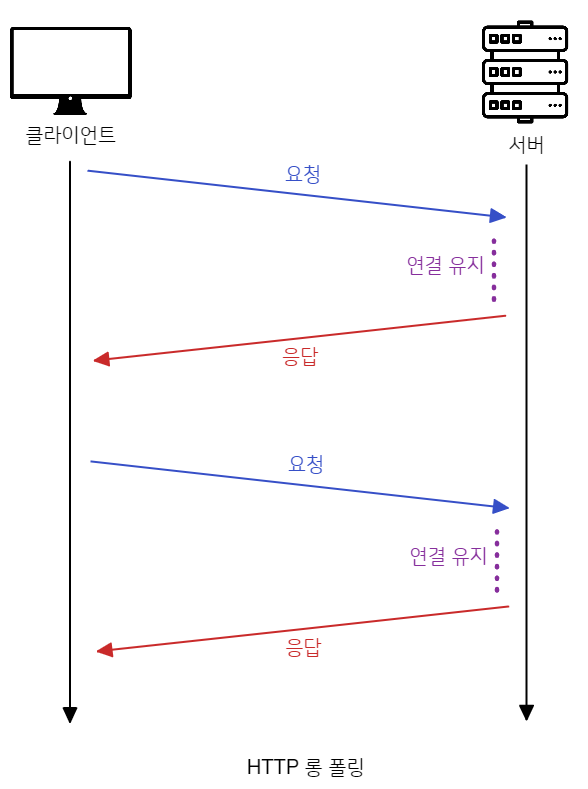
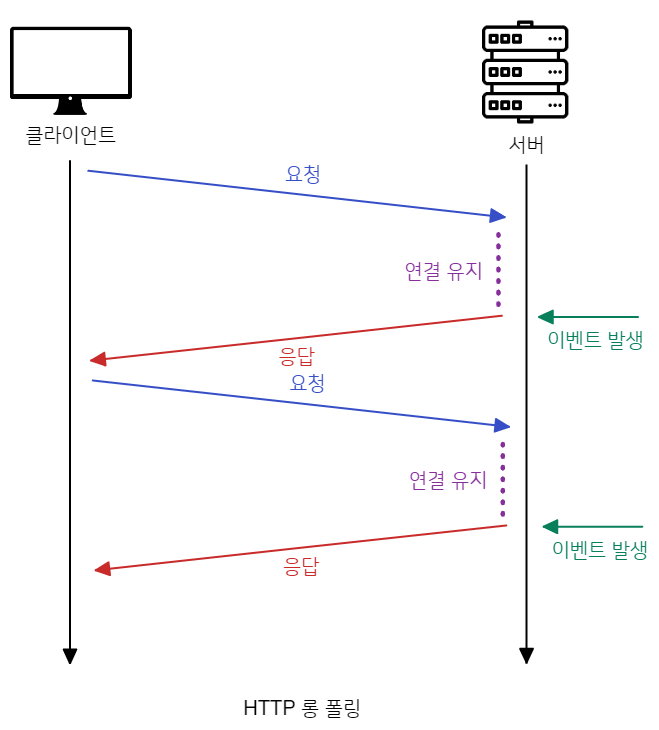
기존의 ''폴링, 롱폴링, 그리고 SSE' 포스트에 'HTTP' 스트리밍에 관한 내용 추가

diff --git a/content/blog/network/polling-and-sse.md b/content/blog/network/polling-and-sse.md
@@ -1,22 +1,22 @@
 ---
-title: '폴링, 롱폴링, 그리고 SSE'
+title: '폴링, 롱폴링, HTTP 스트리밍, SSE'
 date: 2022-05-08
 category: 'network'
 draft: false
 ---
 
-현재 실시간 양방향 통신을 구현할 때 흔히 사용하는 기술은 [웹소켓](../websocket-protocol) 기술입니다. 이 포스트에선 웹소켓이 등장하기 전에 (실시간) 양방향 통신을 구현하던 방법인 폴링과 롱폴링, 그리고 양방향 통신은 아니지만 실시간 단방향 통신 기술인 SSE에 대해 간략히 알아보겠습니다.
+현재 실시간 양방향 통신을 구현할 때 흔히 사용하는 기술은 [웹소켓](./websocket-protocol) 기술입니다. 이 포스트에선 웹소켓이 등장하기 전에 (실시간) 양방향 통신을 구현하던 방법인 폴링과 롱폴링, 스트리밍, 그리고 양방향 통신은 아니지만 실시간 단방향 통신 기술인 SSE에 대해 간략히 알아보겠습니다.
 
 ## 폴링
 
-**폴링(Polling)** 기술은 전통적인 AJAX 애플리케이션에서 사용되던 방식으로, 주기적으로 HTTP 요청을 서버에 날려서 데이터를 받아오는 방식입니다. 즉, 일정 간격마다 요청이 이뤄지며, 클라이언트는 새로운 데이터가 있든 없든 응답을 받습니다. 
+**폴링(Polling)** 기술은 전통적인 AJAX 애플리케이션에서 사용되던 방식으로, 주기적으로 HTTP 요청을 서버에 날려서 데이터를 받아오는 방식입니다. 즉, 일정 간격마다 요청이 이뤄지며, 클라이언트는 새로운 데이터가 있든 없든 응답을 받고 일정 시간 기다렸다가 다음 요청을 날리고 응답받고, 또 기다렸다가 다음 요청을 날리고 응답받고 …와 같은 방식으로 동작합니다. 
 
 <figure>
     <img src="https://cdn.jsdelivr.net/gh/jaehyeon48/jaehyeon48.github.io@master/assets/images/network/polling-and-sse/http_polling.png" alt="HTTP 폴링" />
   <figcaption>HTTP 폴링.</figcaption>
 </figure>
 
-스포츠의 문자 중계 기능과 같이, 새로운 데이터가 일정한 간격으로 생성되는 경우엔 폴링이 효과적일 수 있습니다.  하지만 코인 가격 데이터와 같이 데이터가 짧은 간격마다 계속해서 업데이트되는 경우엔 비효율적일 수 있는데 그 이유는:
+스포츠의 문자 중계 기능과 같이, 새로운 데이터가 일정한 간격으로 생성되는 경우엔 폴링이 효과적일 수 있습니다. 하지만 코인 가격 데이터와 같이 데이터가 짧은 간격마다 계속해서 업데이트되는 경우엔 비효율적일 수 있는데 그 이유는:
 
 - 실시간성을 최대화하고자 요청을 보내는 간격을 줄이자니 요청 수가 많아져서 서버에 부담이 가게 됩니다. 특히 요청을 보낼 때 HTTP 헤더 또한 같이 전송되므로 클라이언트가 요청 간격을 줄이게 되면 그만큼 서버가 받는 부하가 커지게 됩니다.
 - 반대로 서버 부담을 덜고자 간격을 늘리게 되면 실시간성이 떨어지는 문제가 있습니다.
@@ -25,18 +25,24 @@ draft: false
 
 ## 롱 폴링
 
-**롱 폴링(Long-polling)** 기술 또한 기본적으로 폴링 방식과 유사하게 HTTP 요청을 주기적으로 날려서 데이터를 받아오는 방식입니다. 단, 폴링과 달리 롱 폴링의 경우 서버에 요청을 날렸을 때 응답해줄 데이터가 없다면 일정 시간 기다리다가 데이터가 생기면 그때서야 응답해주는 방식입니다 (혹은 타임아웃이 발생하면 빈 응답을 보낼 수도 있습니다). 그리고 응답을 받은 클라이언트는 곧바로 다음 요청을 서버에 보내게 됩니다.
+**롱 폴링(Long-polling)** 기술 또한 기본적으로 폴링 방식과 유사하게 HTTP 요청을 주기적으로 날려서 데이터를 받아오는 방식입니다. 하지만 폴링과 달리 롱 폴링의 경우 서버에 요청을 날렸을 때 응답해줄 데이터가 없다면 일정 시간 기다리다가 데이터가 생기면 그때서야 응답해주는 방식입니다 (혹은 타임아웃이 발생하면 빈 응답을 보낼 수도 있습니다). 그리고 응답을 받은 클라이언트는 일반적으로 곧장 다음 요청을 서버에 보냅니다 (물론 일정 시간 기다린 이후에 보낼 수도 있습니다).
 
 <figure>
     <img src="https://cdn.jsdelivr.net/gh/jaehyeon48/jaehyeon48.github.io@master/assets/images/network/polling-and-sse/http_long_polling.png" alt="HTTP 롱 폴링" />
   <figcaption>HTTP 롱 폴링.</figcaption>
 </figure>
 
-하지만 롱 폴링의 경우, 데이터가 빈번하게 업데이트되는 상황에선 폴링방식과 별다른 차이가 없게 됩니다. 데이터 업데이트가 빈번한 경우 클라이언트는 요청 즉시 응답을 받게 되고, 바로 이어서 다시 요청을 보내 응답을 받게 되고, 또 바로 이어서 다시 요청을 보내 응답을 받고 … 와 같은 상황이 발생하기 때문입니다.
+또한, HTTP 연결 재사용 기능을 활용하여 매 롱 폴링 요청마다 TCP/IP 연결을 새로 맺어야 하는 오버헤드를 줄일 수 있습니다 (이는 폴링의 경우에도 적용되지만 일반적으로 요청 사이의 간격이 더 짧은 롱 폴링의 경우에 특히 효과를 볼 수 있습니다).
+
+하지만 롱 폴링의 경우, 폴링과 마찬가지로 어쨌든 HTTP 요청을 계속해서 날리는 것이므로 HTTP 헤더에 의한 오버헤드가 존재합니다.데이터가 빈번하게 업데이트되는 상황에선 폴링방식과 별다른 차이가 없게 됩니다. 데이터 업데이트가 빈번한 경우 클라이언트는 요청 즉시 응답을 받게 되고, 바로 이어서 다시 요청을 보내 응답을 받게 되고, 또 바로 이어서 다시 요청을 보내 응답을 받고 … 와 같은 상황이 발생하기 때문입니다.
+
+## HTTP 스트리밍
+
+**HTTP 스트리밍(HTTP Streaming)** 방식은 요청에 대한 응답을 완료하지 않은채(즉, 서버에서 요청을 계속해서 열어둔채로) 데이터를 계속해서 클라이언트로 푸시하는 방식입니다. 매번 응답을 할 때마다 곧 이어 다시 요청해야 하는 (롱)폴링 방식에 비해 효율적이며, 서버의 상태 변경이 잦은 경우에 유리한 방식입니다. 일반적으로 `Content-Length`, `Transfer-Encoding`, `End of File` 응답 헤더 등을 이용하여 응답 데이터의 크기를 명시할 수 있습니다.
 
 ## SSE
 
-하지만 이와 다르게 **SSE(Server Sent Events)**는 처음부터 효율적으로 설계되었습니다. SSE 또한 HTTP를 기반으로 동작하는 기술이지만, 폴링·롱 폴링과는 달리, SSE는 서버가 원할 때 언제든 클라이언트로 데이터를 보낼 수 있는 *단방향 통신 기술* 입니다. 여기서 "서버가 원할 때"는 일반적으로 새로운 데이터가 생겼을 때를 의미하겠죠?
+단방향 통신 기술인 **SSE(Server Sent Events)**는 처음부터 효율적으로 설계되었습니다. SSE 또한 HTTP를 기반으로 동작하는 기술이지만, 폴링·롱 폴링과는 달리, SSE는 서버가 원할 때 언제든 클라이언트로 데이터를 보낼 수 있습니다. 여기서 "서버가 원할 때"는 일반적으로 새로운 데이터가 생겼을 때를 의미하겠죠?
 
 <figure>
     <img src="https://cdn.jsdelivr.net/gh/jaehyeon48/jaehyeon48.github.io@master/assets/images/network/polling-and-sse/server_sent_events.png" alt="SSE" />
@@ -47,5 +53,6 @@ SSE는 웹소켓 프로토콜이 제공하는 양방향 통신 기능 대신, SN
 
 ## 레퍼런스
 
+- [RFC 6202 - Known Issues and Best Practices for the Use of Long Polling and Streaming in Bidirectional HTTP](https://datatracker.ietf.org/doc/html/rfc6202)
 - [Stream Updates with Server-Sent Events - HTML5 Rocks](https://www.html5rocks.com/en/tutorials/eventsource/basics/)
 - [Polling vs SSE vs WebSocket— How to choose the right one | by Bharathvaj Ganesan | codeburst](https://codeburst.io/polling-vs-sse-vs-websocket-how-to-choose-the-right-one-1859e4e13bd9)
